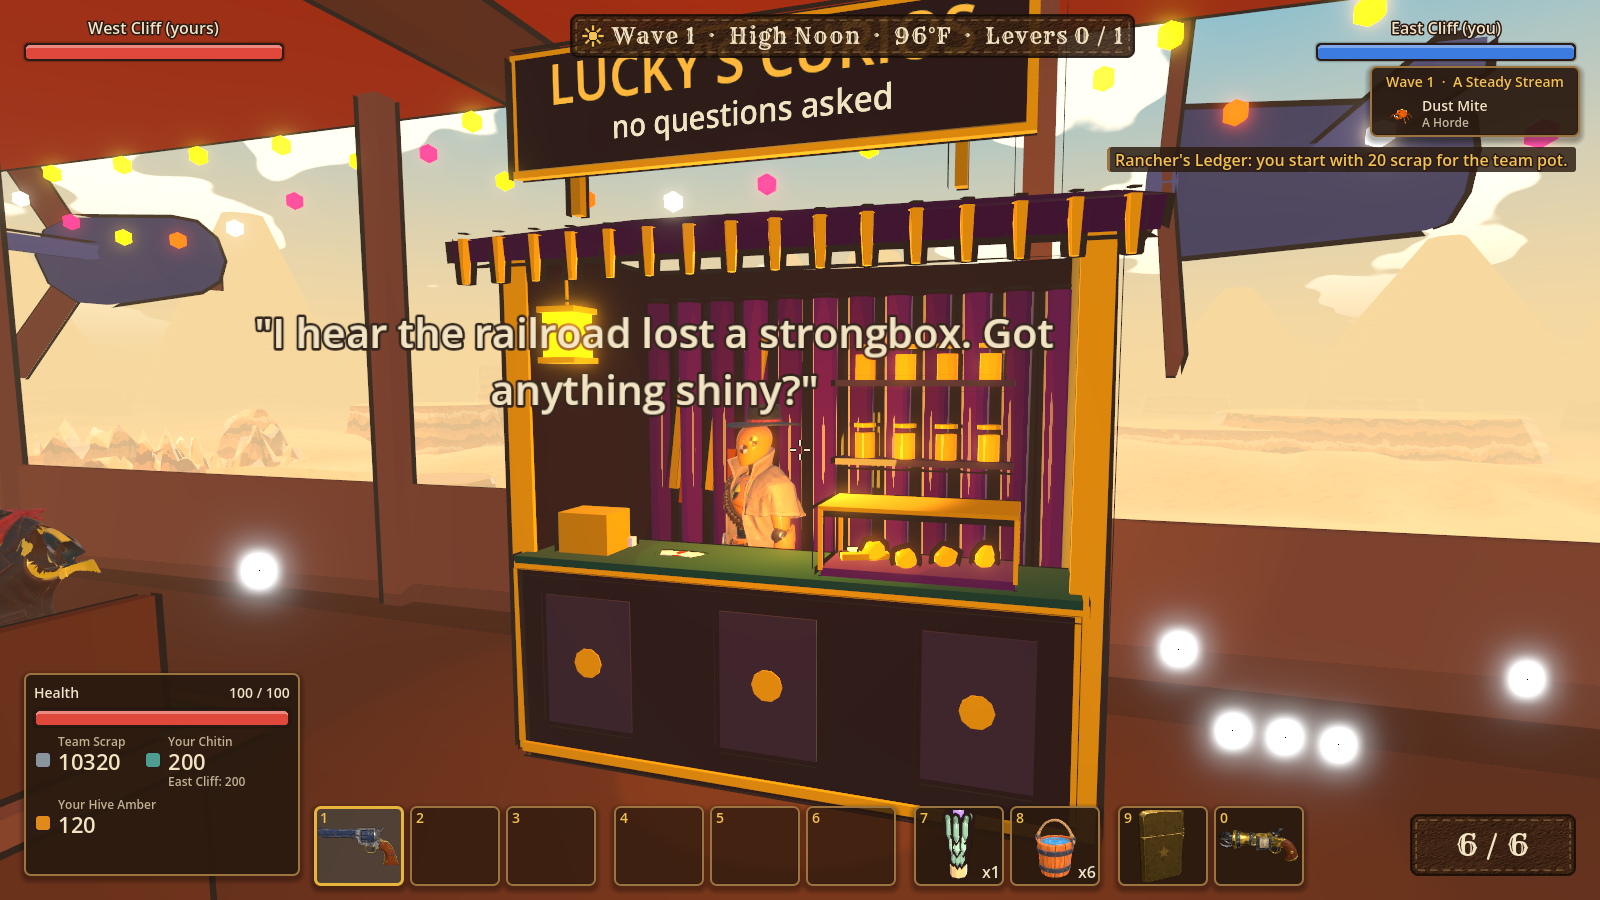
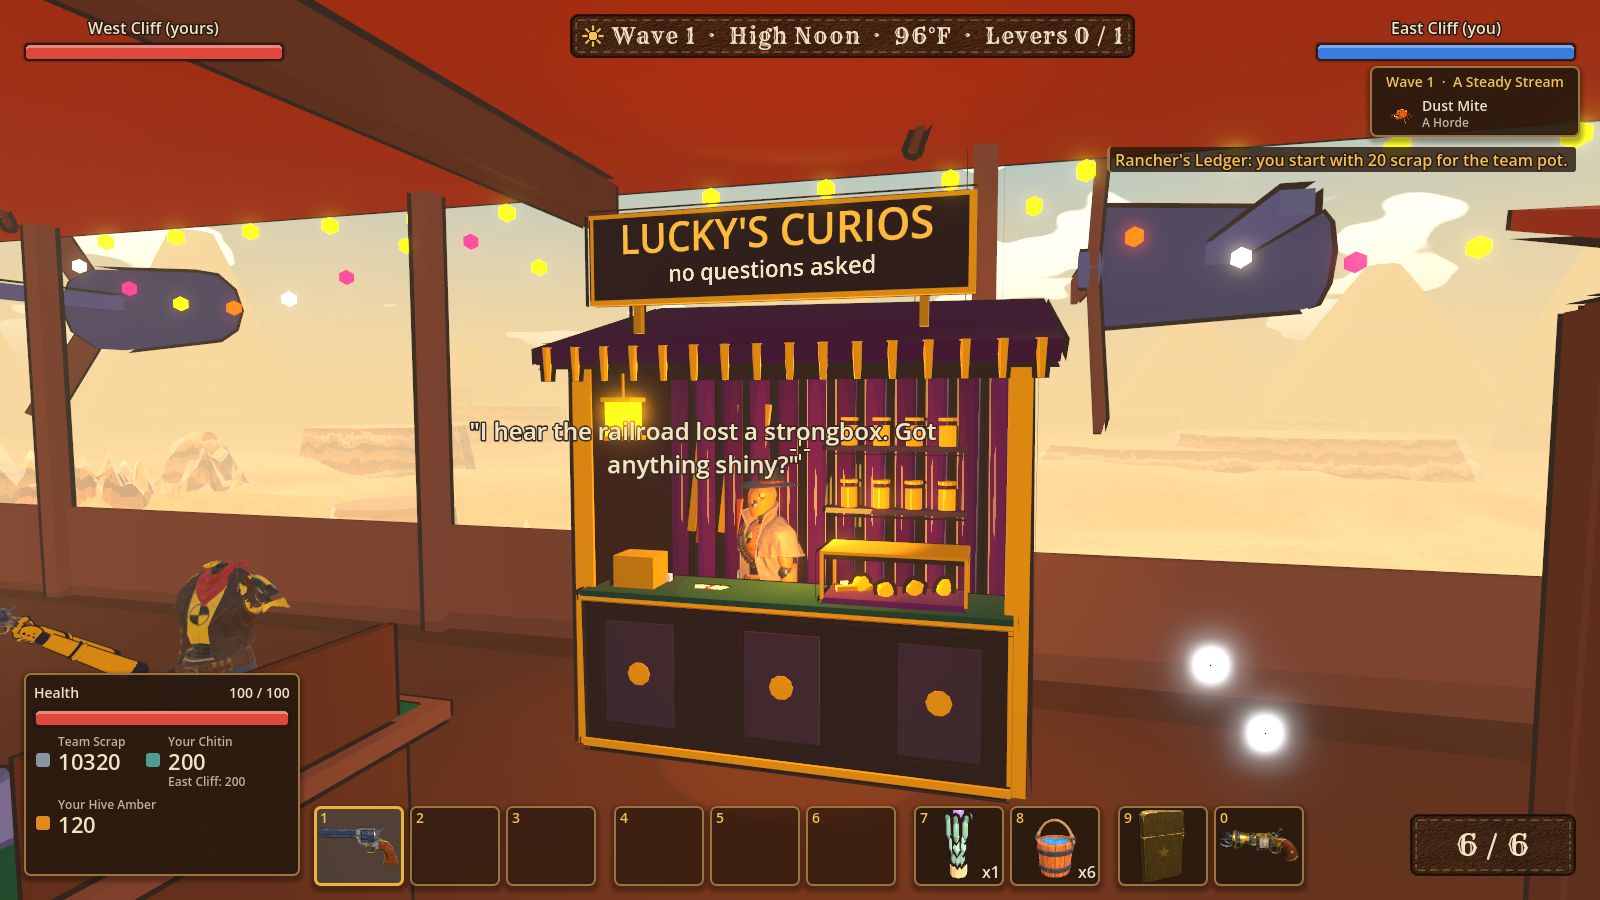
Hive amber: DECISIONS 151, screenshots, amber chunk and Lucky polish

diff --git a/DECISIONS.md b/DECISIONS.md
@@ -215,3 +215,4 @@ Assumptions and changes from the design doc, newest last.
 148. **Canyon Expeditions, the core (Logan approved the pitch; the floor sites are a separate branch):** between waves you can go down onto the canyon floor and bring loot home. **Down and up:** a free rope winch on every cliff's lip at the yard's south corner (RopeAnchor, plateau z -19; cell (0, 0) is kept clear for it), E at the post rides a bosun's chair down in 8 s (E at the floor stake rides up); the boom reaches out past the furthest the face juts out, so the ride never scrapes rock. The grapple still works: grappling below the lip in the build phase puts you "on a trip", so the canyon fall no longer hauls you home. On the floor, the ready key (G) hails the airship: 5 chitin from your stockpile, the hook drops and lifts you home. **Levers wait:** while you're down your lever can't be thrown (it drops if it was), a running countdown is called off, and the countdown can't start; partners see "<name> is in the canyon" under the plaque, a marker over you and a note on your generator. When a wave would start anyway (--fast clocks, debug skips), whoever's down is hauled up. **Backpack** (Backpack, 40 weight units; scrap 1, chitin 2, bone 3, relic 4, unknown items 1, seeds free; a full pack walks at 62% speed) is separate from the stockpile and unpacks into your own cliff's stockpile the moment you're back above the lip (any lip). **Downed on the floor:** your pack drops as a lootable sack where you fell (anyone takes what fits; it lasts until the next wave ends) and the airship crew hauls you up when the downed timer runs out. **Risk:** gunshots make noise (Expedition.make_noise, 45 m, 70 m for kickers and scatterguns, none for the Bee Smoker; the whip is silent) and add 4 s each to the risk clock of anyone down within earshot; at 45 s of risk the ground rumbles every 9 s, from 80 s packs of hunters (wolf spiders and dust mites) come out of the nearest tunnel every 20 s and bite (max 6 at once); they go home when you're up. **Turrets cover the floor:** floor bugs (hunters, and the sites' sleepers via Bug.floor_bug) are targets for cliff turrets, top priority, but the pitch limit still applies: from a 60 m lip the far foot straight across is 53 degrees down, so only 40-60 degree guns reach the far floor some 50+ m along the canyon. Contract for the floor sites: autoload `Expedition` with add_to_backpack, is_down, make_noise, floor_time and the went_down / came_up / noise signals.
 149. **Canyon Expeditions, the sites (owner-approved pitch; the core - ropes, lever lock, backpack, noise - is the `Expedition` autoload from the other helper):** every map gets 3-5 raid sites on the floor, picked from its bug tunnels by a run seed (SitePlan.generate: one per tunnel, each kind at most once, 17 m apart, sliding up to 6 m along the wall to make room, clear of the canyon's end walls; the host rolls the seed, `--siteseed=N` fixes it, clients ask for it). Nothing is hand-placed, and the canyon dressing (floor rocks, cacti, hoodoos, dead trees, wall-foot boulders, floor webs) keeps clear of every spot a site could take (SitePlan.reserve_zones; skipped pieces still use up their random numbers, so the rest of the dressing is unchanged). Kinds (SitePlan.Kind, props in gen/site_builder.gd, layouts in scenes/expedition/site_props.gd): **Tunnel Mouth** (old mine shoring with a lit lantern, shed husks, a tipped ore cart; chitin, 1-2 turret parts, a Doc Whitlow journal page; dust mites, a wolf spider from wave 4), **Bone Yard** (an 11 m carcass - vertebrae, a ribcage you can walk under, a horned skull with sockets and open mandibles, broken legs, curled shell plates - and an older half-buried one; lots of chitin, a rare mount or barrel, a Boss Trophy with an upgrade token; scavenger beetles: crop weevils and a rattler), **Old Survey Camp** (two canvas tents, a brass theodolite on its tripod, a map table with a lit lantern, crates, a cold campfire, survey stakes; a blueprint = the three parts of one crafted design, a specimen jar, a journal page, a supply crate; two bear traps and a dynamite tripwire between the tents, E disarms), **Bug Nest** (a resin crater with glowing veins, spires and strands; 3-4 clutches of eggs, glowing; a rattler brood guard, wolf spiders and spiderlings, a spitter scorpion from wave 8), **Railroad Wreck** (Number Seven, a 4-4-0 on her side on two trestle bents, her tender, two rail cars of salvage, bent track; three cartloads of scrap and loose scrap, sometimes a part). Pickups: chitin and loose scrap are walked over, the rest E; everything goes through ExpeditionApi.add_to_backpack (what doesn't fit stays on the ground). New items: `egg` (the core backpack's key, weight 2; sells for 18 scrap at the airship market) and `specimen` (14 chitin there, "Doc's standing order"), `journal_page` (each one reads out a line of Doc's journal). Sites refill every build phase: new loot (more as the waves climb), traps re-armed, the wreck propped back up, fresh sleepers (more and nastier later). **Sleepers:** existing bugs spawned through BugManager (host-authoritative, synced like any bug) in two new states, SLEEPING (lying low, slow breathing, a drifting "z Z") and HUNTING (FloorHunter: runs at the nearest player who is down on the floor, bites at 1.4x its breach damage, never climbs, leashed 34 m from home, goes back to sleep after 5 s with no one to chase). They wake when a floor player comes within 4.5-7 m, when shot, or on noise (ExpeditionApi noise: gunshots from the core, plus smashing eggs 18 m, a bear trap 22 m, the dynamite 40 m, the wreck coming down 45 m). Site bugs aren't part of the wave (alive_count skips them), pay their kill loot to the killer's cliff and carry `floor_bug` for the core's floor-covering turrets. **Eggs:** E takes a clutch, F smashes it; smash at least half a nest's clutches and that nest's tunnel sends 80% of its bugs next wave (SitePlan.cut_count in BugManager.spawn_group, fractions carried so a wave works out at exactly 80%). **The wreck** creaks after 18 s with anyone inside (sound, shake, dust, a feed warning) and comes down at 28 s (SitePlan.WreckClock; it settles back at half speed when left alone): the trestles fall, timbers drop out of the sky on 7 spots and on everyone inside (35 damage within 2.2 m), the rest of the loot is buried till the refill. Overview map: the canyon map stretches down the canyon to show the sites (smaller scale), each as a ringed marker with its initial and name, "Picked Clean" once empty, plus a Raid Site legend entry and every tunnel mouth. Field guide: a Canyon Floor tab (each site with what it holds and what sleeps there, the egg, the specimen jar, journal pages). Not saved: a continued run rolls a new site seed. Debug: `--floor=N` (stand at site N; floor players don't fall-and-respawn), `--floor=overview`, `--floorcam=wide|close|top|left`, `--floorshot=<png> --seconds=N`, `--floorwake`, `--floorlog`, `--floortest`.
 150. **Story mode, chapter 7 Down the Hole, and the expedition versions of chapters 2 and 3 (nothing "Coming Later" any more):** **7. Down the Hole** (Canyon, wave 19, one night; The Queen moves to waves 20-21 and `requires` ch7; `sealed_tunnel: true` keeps the main tunnel blown shut for her). The **main tunnel** is the map's tunnel nearest a rope winch's foot (CliffBuilder.main_tunnel, BlastRules.pick_main; the canyon's is in the east wall at z -58), drawn bigger than the rest on every map (1.45 x 1.35 arch, 1.5 x longer rift), and the raid sites leave it alone in ch7 and ch8 (SitePlan.skip_tunnels). The job (DownTheHole, rules in BlastRules): a dynamite pallet by every rope foot holds the job's crates (2 + 1 per rider: 3 solo, 6 for four); a crate rides in the backpack at 35 weight (two to an 80-unit pack, you walk slow); the main tunnel's mouth is shored up as a mine portal (timber posts and cap, "C.R.R. SURVEY ADIT No. 3 / KEEP OUT" header, rails out onto the floor, a lantern, a red light column until it blows) and E in the opening fades you into the tunnel's inside. **Design call: the inside is a separate walkable set (MineTunnel) built 160 m under the mouth** rather than a hole cut in the wall: every map's terrain and the floor sites stay untouched, it works for the Mesa and Buttes rifts as well as the canyon arches, and a fade in/out at the portal / the daylight sells it. Inside: 29 m of 1889 survey adit (timber sets every 3.5 m, sagging deeper in, lagging boards, rails bent up at the end, a tipped ore cart, hung lanterns) glazed more and more with glowing hive resin, opening into a 9 m chamber of egg-sac clusters, resin drips and bones with the hive hole in the back wall; the sun doesn't light it (its own visual layer) and the ambient light fades down while you're in it. Charge spots are chalk X's with red flag pegs down alternating walls (9 m to 39 m in); E with a crate in your pack straps a six-stick bundle to the rock with its cord run back to the daylight. With every charge set, the fuse spool by the portal takes a light (E): 45 s, a spark runs down the cord. Hunters: while anyone's down, wolf spiders, dust mites and rattlers pour out of the main tunnel at whoever's on the floor (a pack every 16 s, 2 s sooner per charge set, every 5 s once the fuse burns; at most 4 + 2 per rider) and out of the hive hole at whoever's inside (bugs walk the set's floor: Bug.UNDERGROUND_Y); the core's risk-clock hunters are off for the chapter, and the sites' sleepers ignore anyone inside the set. **The blast:** a flash, a fireball rolling out of the mouth, rock and timber thrown across the floor, boulders off the wall above, a dust wall that hangs for seconds, three explosions and thunder, a shake for everyone (by distance), then the portal and set are gone and a heap of boulders, split timbers and a bent rail fills the mouth (collidable). Anyone inside or within 26 m of the mouth is buried (downed; their pack lands in front of the mouth), anyone else on the floor within 70 m takes 30. The tunnel is sealed: BugManager picks the next open tunnel (CliffBuilder.open_tunnel_index), Expedition's hunters skip it. Crates that come back up go back on the pile; a downed carrier's crates lie where they fell (E to repack). If the night ends with the tunnel still open, the run goes back to a **story hold build phase** (GameState.story_hold_build: same wave, daylight, levers refused, no wave can start) until the job's done; this holds for every floor job. Rewards: 100 Notches, Silas's Blueprint: Dynamite Thumper (craft_post_cannon_explosive), journal page 7. **2. Dry Season** now: the supply wagon with the spare valve went over the edge; its wreck (bed on its side, a wheel off, snapped bonnet hoops, spilled crates, sacks and a barrel) lies on the floor 60% of the way from your rope foot to the main tunnel, clear of the raid sites, the valve crate in its load (light column). E puts the Pump Valve in your backpack (10 weight); back above the lip it rides on your back to any well as before. **3. The Survey Map** now: the Queen Spider's carcass always ends up on the canyon floor at the foot of the lane she climbed (killed on the wall she falls; killed up top "the crew tipped her over the edge"), flat on her back, legs curled, abdomen split with the gland glowing beside it; E cuts it out into your backpack (8 weight), and up top it's mailed from a noticeboard as before. **Design call:** the carcass, not the sites' Old Survey Camp: it ties the gland to the boss fight and is on every map. Both use Expedition.story_items: a story item rides in the backpack like loot but is never unpacked onto the stockpile (story_item_up) or put in a downed player's sack (story_item_dropped: it lies where you fell). The old stand-ins still work from the data (`spawn` airship_drop / boss_drop); the data now says floor_wagon / boss_carcass with a `pack_item`. Debug: `--story=7 --ch7view=portal|pile|interior|chamber|charge|fuse|blast|sealed|hunt` (`--ch7take`, `--ch7set`, `--ch7light`, `--ch7lip`), `--storymap=<id>` (play a chapter on another map), `--ch7fuse=S`, `--ch7crates=N`, `--ch7boomshot=<png> [--ch7boomwait=S]`; `--storyfloorview [--storyfloordist=M --storyfloordir=deg]` (stand by the floor item), `--storycarcass` (lay the Queen Spider's carcass now).
+151. **Hive amber, Lucky Moreau and the three amber turrets (designer-approved):** the railroad's board secretly mines hive amber, the resin the bugs build with. **The item** `amber` (AmberRules, components/amber_rules.gd): found only on the canyon floor, as a glowing lump (SiteBuilder.amber_chunk, a little light on it) at some raid sites after each refill (AmberRules.SITE_AMBER: chance and units per kind, nests 80% 2-4, wrecks 65% 2-3, bone yards 45% 1-3, mouths 35% 1-2, camps 30% 1-2, +1 from wave 12; rolled after the rest of a site's loot so that's unchanged). Backpack weight 4. PERSONAL like chitin (in EconomyLedger.RESOURCES, never SHARED). HUD: a "Your Hive Amber" counter on its own row under scrap/chitin, shown once you have some; menus show an amber stock chip; item icon drawn (ItemIcon) and rendered (IconStudio.site_loot). **API for story code (host):** `Amber.grant(peer_id, units, why)`, `Amber.grant_cliff(cliff_id, units)`, `Amber.grant_all(units, why)`; `Story.unlock_amber_blueprint(id)` (-> `Amber.unlock_blueprint`) teaches the team a turret for this run and saves it in every rider's StoryProgress.amber_blueprints; a chapter's JSON may also reward `{"kind": "amber_blueprint", "id": "amber_kiln"}`. Blueprint ids: `amber_kiln` (meant for ch7's strongroom), `queens_bell` (ch9's ledger), `mandible_lance` (ch10's Iron Mandible wreck); not wired into any chapter yet. **The Amber autoload** keeps the run's team blueprint set (each rider's saved ones, merged on the host and mirrored; anything learnt this run), Lucky's sales and favours, and the one-of-each count. **Lucky Moreau** (scenes/airship/lucky_stall.gd): a black-lacquer-and-gold booth with a velvet curtain, amber jars and a glass case, "LUCKY'S CURIOS / no questions asked", by the airship's starboard rail between the casino and the market; Lucky is a Shopkeeper dummy in a gambler's hat, pencil moustache and duster who says "I hear the railroad lost a strongbox. Got anything shiny?" when you walk up. **Design call:** he's aboard when the story chapter being played is 5 or later, or from wave 8 in a normal run (AmberRules.lucky_open; every peer decides it, no sync). Paid only in amber, host-authoritative like the gunsmith (client asks, Amber.buy checks and charges). Stock (AmberRules.STOCK): **Lucky's finish** on four of the gunsmith's irons, bit 9 of the weapon code (WeaponMods.mult/add/flag fold it in, so it travels with dropped, stored and saved guns and keeps level and mods): Engraved Peacemaker (revolver: +40% damage, reloads twice as fast, +2 rounds, 6 amber), Amberstock Winchester (+35%, pierces armour, +30% range, 8), Gilded Coach Gun (+4 pellets, 30% quicker, 8), Maharaja's Express (elephant gun +35%, reloads 30% faster, 10); the hotbar shows the finish's name and the gun gets an amber sheen (ViewModel.set_finish). **Amber Lacquer** paint (only Lucky sells it: PerkTable.LUCKY_LOOKS, never in the Ledger, worn from the Wardrobe; 5). Favours, paid at the next dawn after a held wave: Airship Supply Drop (8 water, 30 chitin, an upgrade token, 3 corn seed; 4), Scrap Bounty Top-Up (+250 team scrap; 5). The three blueprints (30 / 35 / 40), permanent for the buyer. (Brand irons weren't added: brands are a run-start pick with their own rules; a new brand isn't cheap.) **The amber turrets** (AmberTurret, meshes in gen/amber_builder.gd, defs in data/turrets/amber/, Defs.AMBER_TURRETS - not in TURRETS or the scrap build tabs): crafted on a new **Amber** tab at the Workshop from amber plus one mount, barrel and load (Kiln 10 amber + Tripod/Cannon/Fire, Bell 12 + Post/Nozzle/Explosive, Lance 14 + Tripod/Rifle/Acid), once the team knows the blueprint; placed from the Crafted tab like any crafted item (CraftTable.is_item_turret), picked back up as the item. Late tier (wave 10), bare ground only (no scaffold), 30-degree pitch limit like every turret and they cover the partner's wall. **One of each per team:** crafting is refused while one stands anywhere or waits in any stockpile, placing while one stands ("The team can field only one Amber Kiln at a time"). All three glow (an amber light, rising embers), gold and brass on blackened iron. **Amber Kiln** (round brick furnace, gold-banded crucible mortar): 85 splash (4.2 m, pierces, x1.25 heavy) every 3 s; every non-boss bug it leaves below half health is **entombed** (Bug.entomb): an amber shell, frozen mid-stride, untargetable by turrets, and a statue in the crowd (BugCrowd.STATUE_WEIGHT: nothing shoves it, anything that runs into it is put straight back outside, flagged blocked, and LaneClimber steps it round to one side after a second or it stalls). Any hit from anything else (guns, other turrets' splash) **shatters** it: the bug dies and the breaker's cliff gets a small burst (4 scrap per bug size, 2 chitin); the amber turrets' own shots never break one (design call, so the kiln's wall holds); a statue left alone crumbles after 24 s and the bug dies inside (still counted alive until then, so a wave can wait for it). Bosses are slowed to 30% for 4 s instead. **Queen's Bell** (an amber bell in a gilded frame, a boiler and steam hammer that strikes it): tolls every 9 s while anything's in reach (80 m, inside the pitch limit): every ordinary climber in range on the partner's wall **turns on its neighbours** for 6 s (BugStatus.frenzy; LaneClimber goes for the nearest bug within 6 m and bites it, 1.5x its breach bite, kills credited to the bell's owner), fliers in range **drop** (Bug.drop_from_sky: 45% of their HP + 20, then stunned 3.5 s on the ground; a dragonfly bandit doesn't survive), bosses stunned 2 s; rings of amber light roll out from the bell and over the wall, "!!" over the frenzied. **Mandible Lance** (a carriage on a short rail, an amber fuel tank, a finned lance ending in a queen's mandibles): one continuous beam, 120 damage a second to everything within 1.8 m of its spot and 0.9 m of its line (armour or not), 150 m reach; it strikes its target as it lights and then drags across the wall from bug to bug at 9 m/s, dropping a burning patch (20% of its damage) every 1.6 m or 0.35 s; 8 s of fire overheats it, it vents steam for 10 s (beam_on / heat / venting synced). Balance: the lance out-damages any turret by more than 2x, the kiln out-hits every splash gun, all three ~400 HP; scarcity (amber, rare parts) and one-each keep them centrepieces. Field Guide: the three turrets (Turrets tab), hive amber (Canyon Floor), Lucky (Basics). Debug: `--amber=N` (N amber on every cliff), `--amberall` (every blueprint known), `--lucky` (Lucky aboard now); `--amberview=kiln|bell|lance [--ambercam=wall|turret|close] [--amberboss]` (built on your lip against a wave; logs what it did), `--amberview=lineup|icons|loot|workshop|lucky|luckymenu [--ambertab=N] [--amberbuy]`, `--ambershot=<png> --amberdelay=S` (screenshots in docs/screenshots/amber/).
